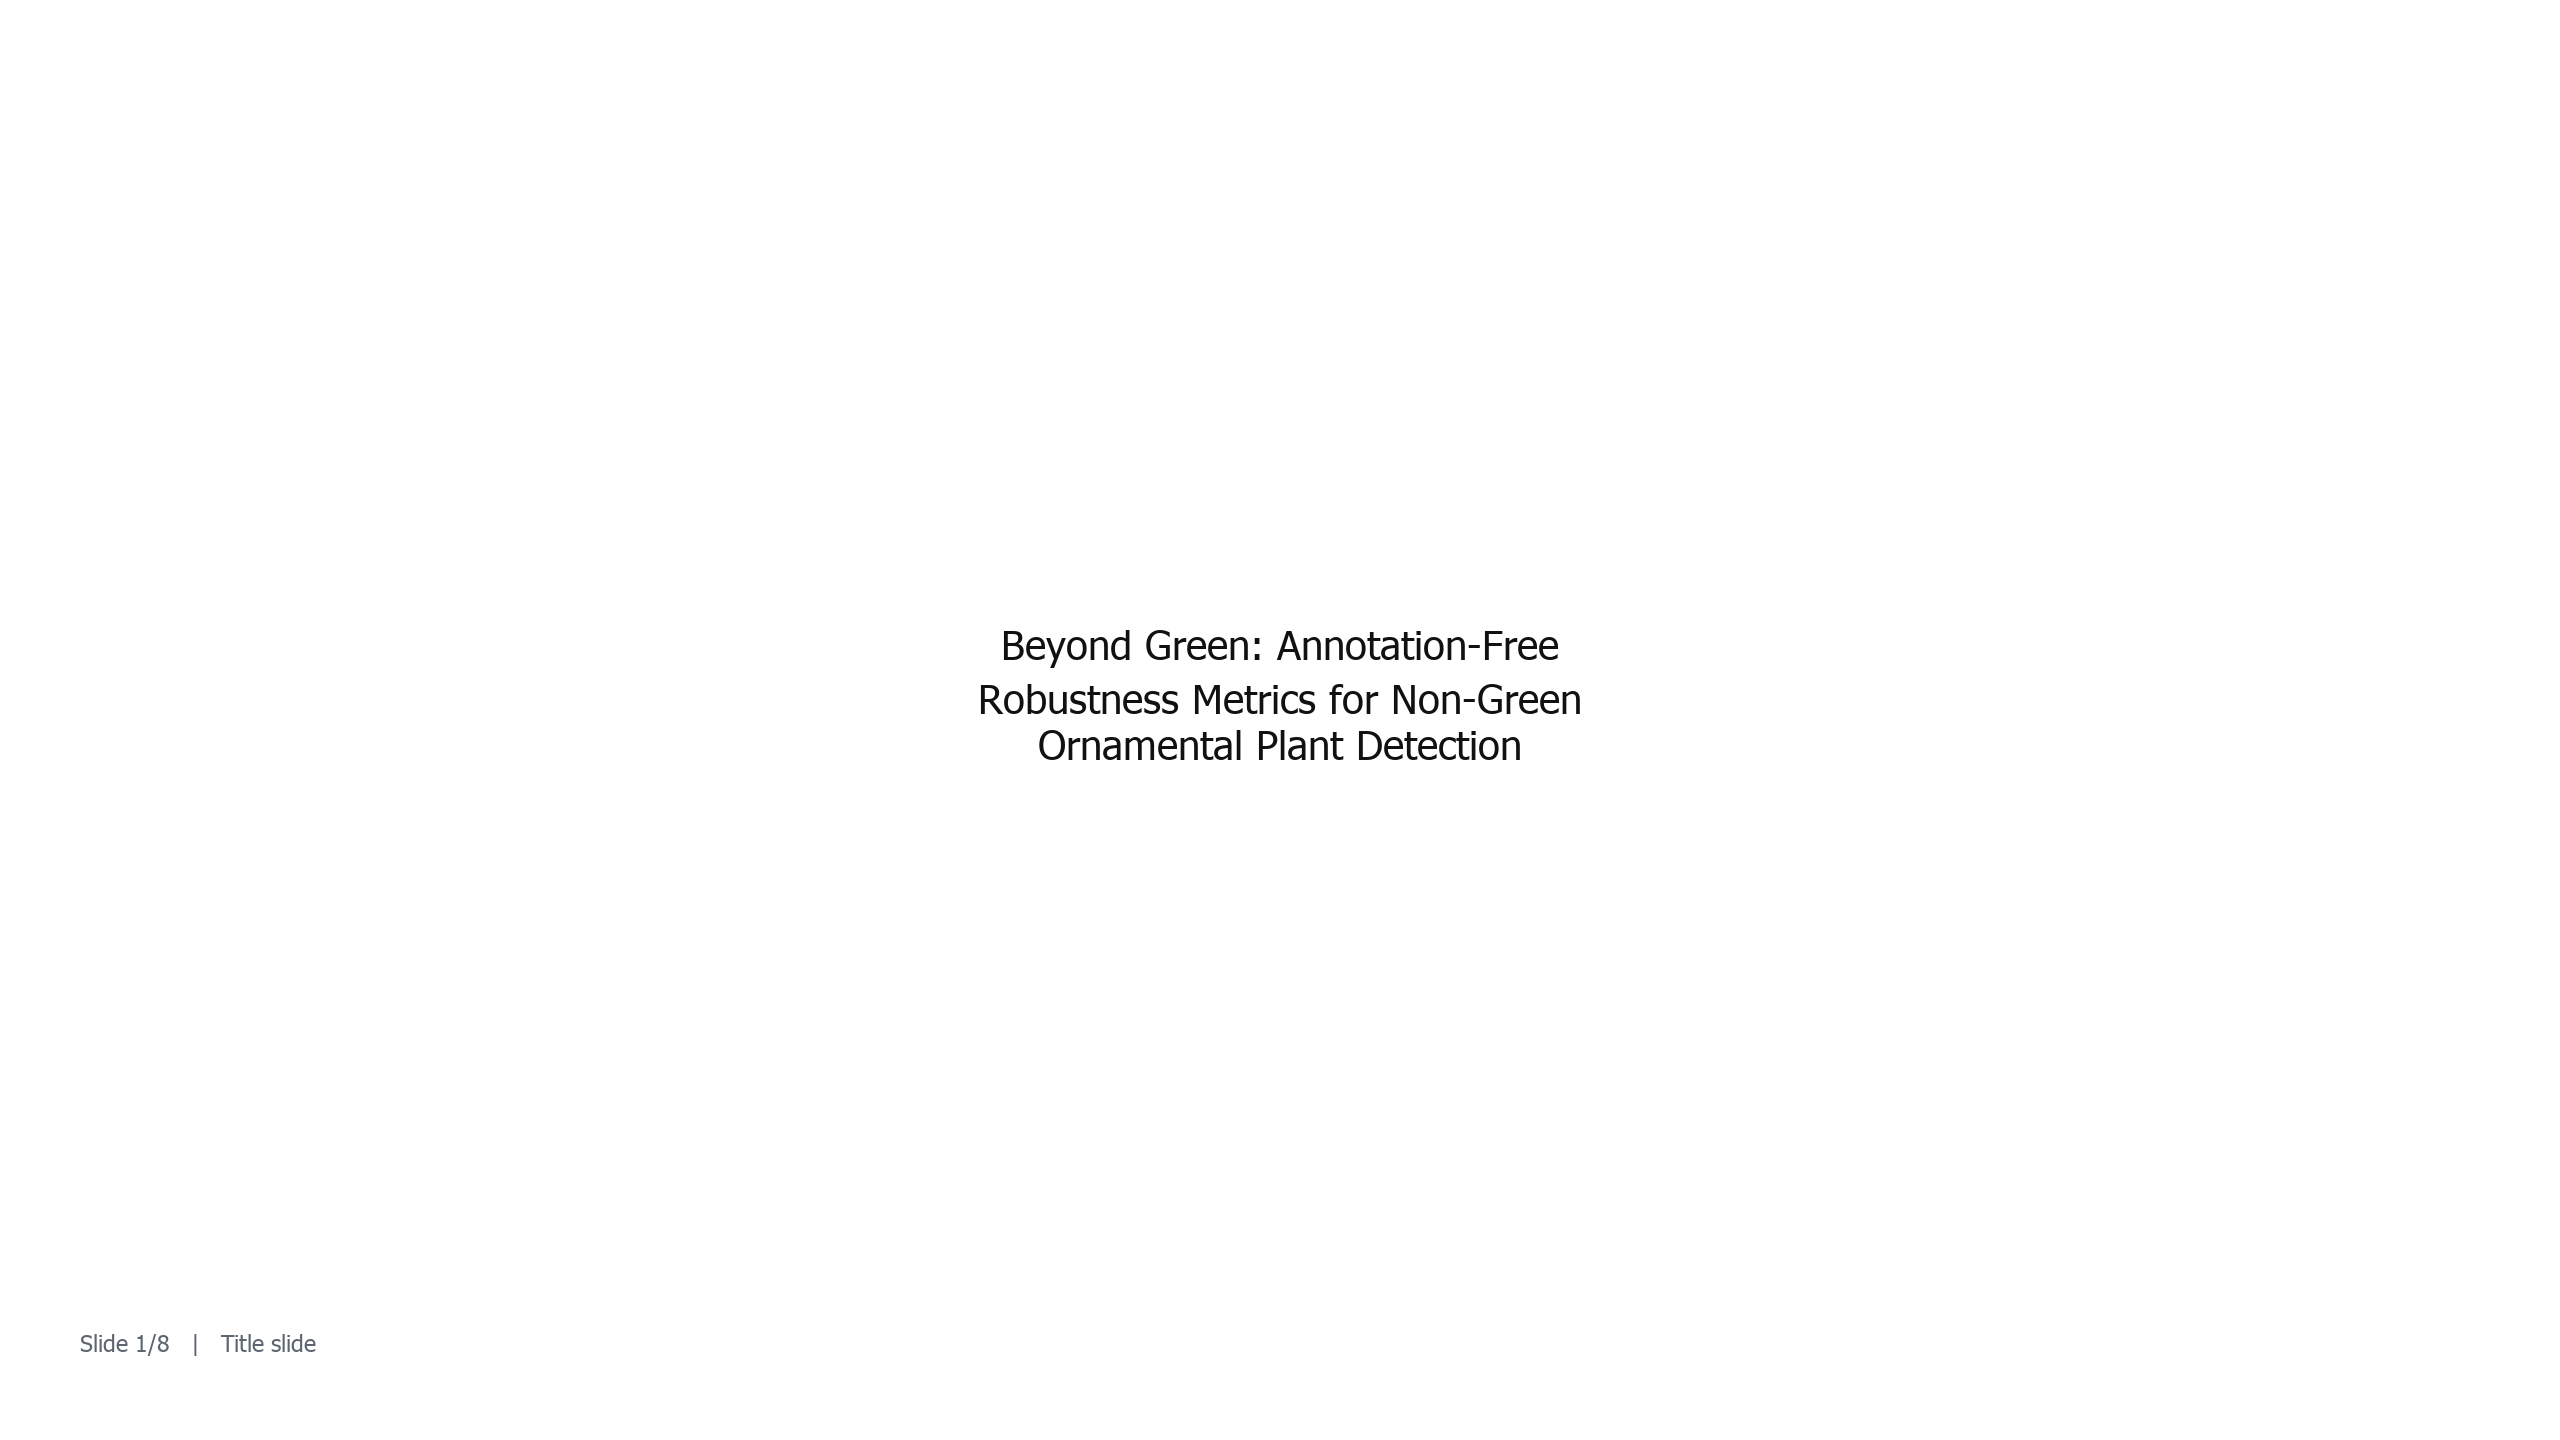
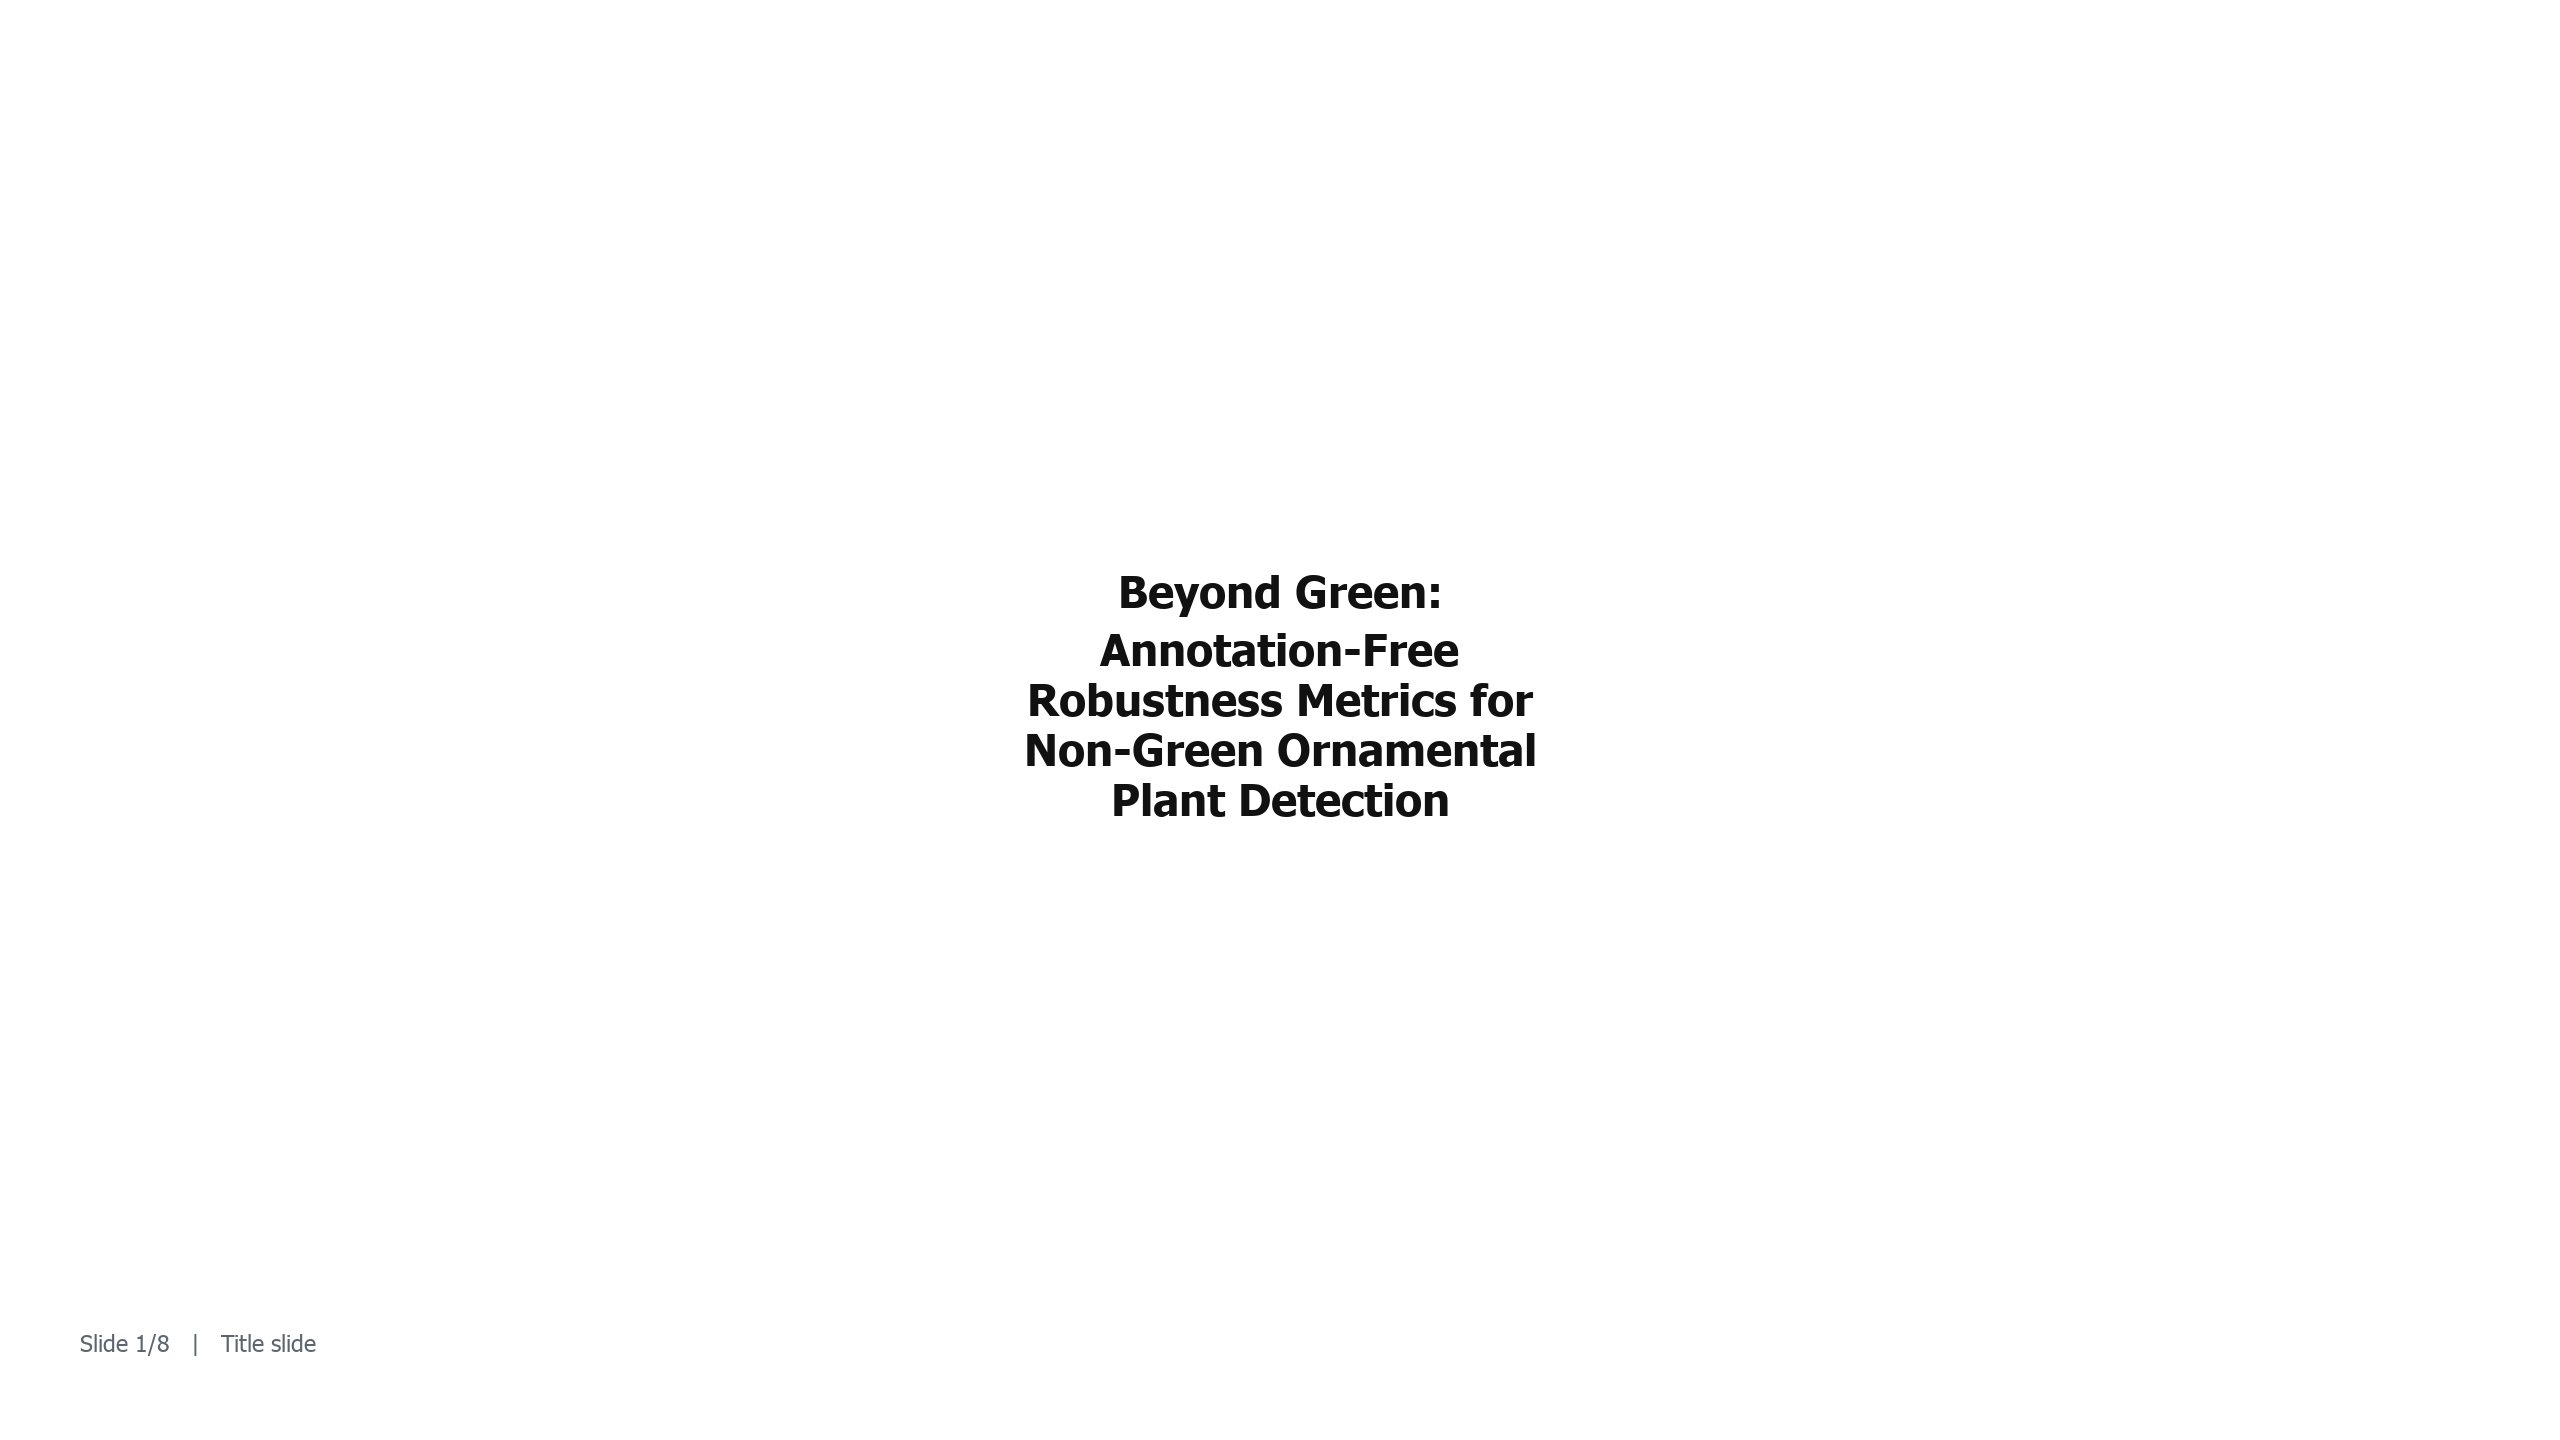
Make title slide 44pt bold and regenerate demo

Changed region(s): [[0.375, 0.4062, 0.625, 0.5938]]

diff --git a/scripts/build_cvpr_demo.py b/scripts/build_cvpr_demo.py
@@ -110,8 +110,8 @@ def render_title_slide(slide: dict[str, Any], index: int, total: int, output_pat
     background = make_background(VIDEO_SIZE)
     draw = ImageDraw.Draw(background)
 
-    title_font_size = 40 if index == 1 else 30
-    title_font = load_font(title_font_size, bold=False)
+    title_font_size = 44 if index == 1 else 30
+    title_font = load_font(title_font_size, bold=(index == 1))
     subtitle_font = load_font(18, bold=False)
     meta_font = load_font(23)
 
